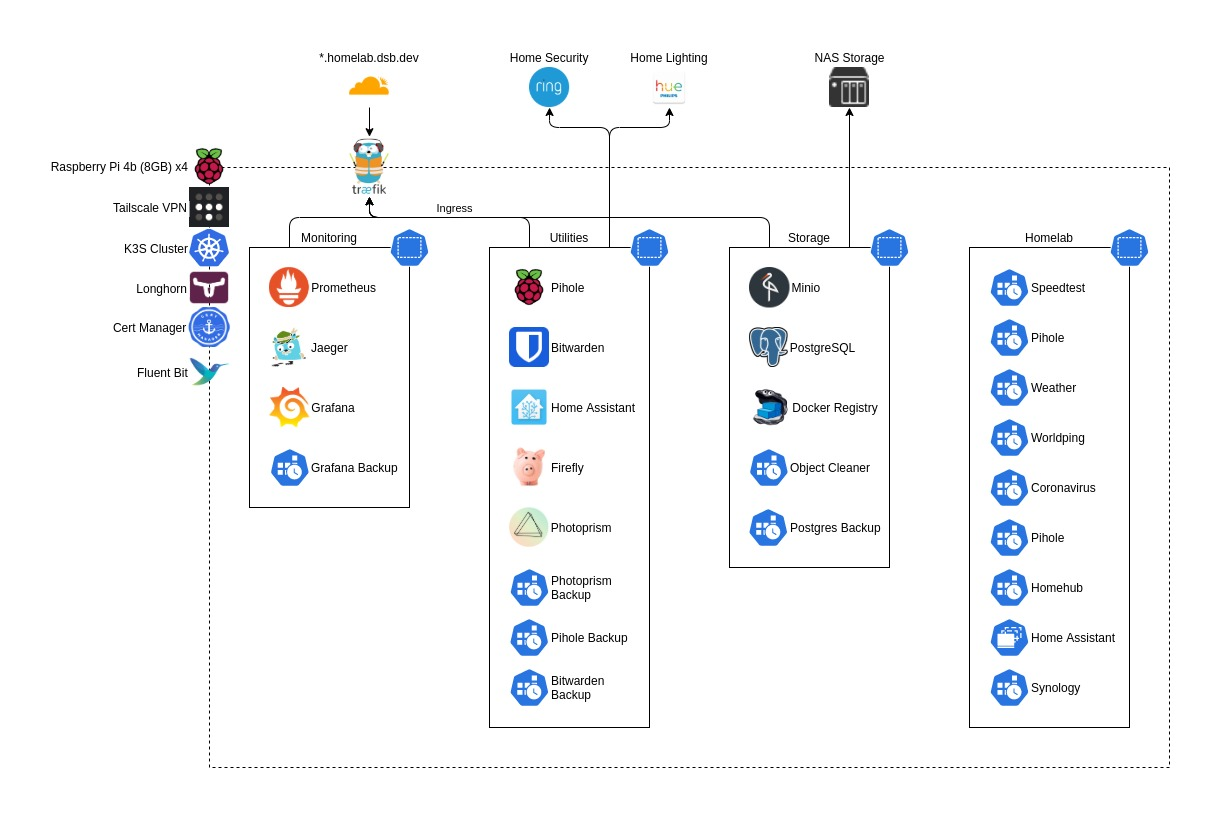
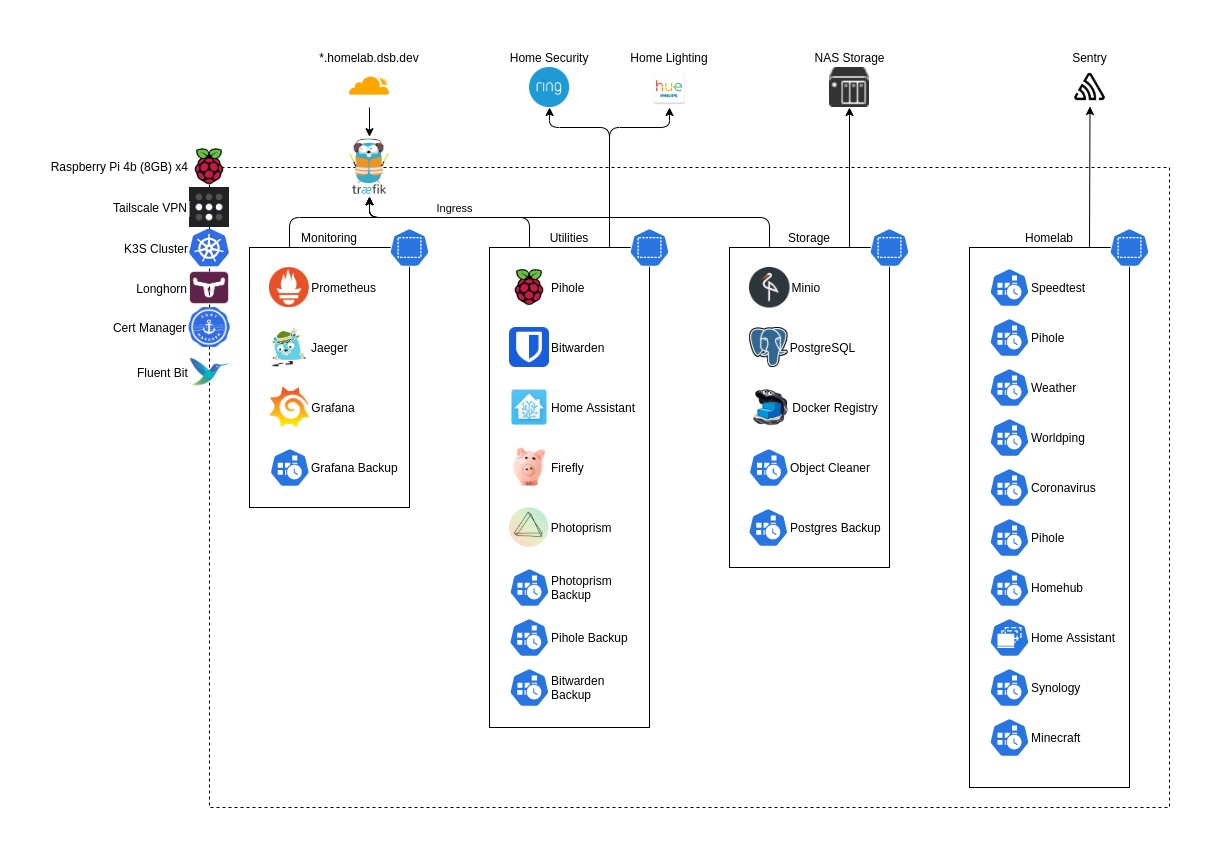
Update diagram and README
Add missing cronjob and sentry integration info.

diff --git a/README.md b/README.md
@@ -116,6 +116,7 @@ These are devices/services that the cluster interacts with, without being direct
 * [Synology](https://www.synology.com/) NAS - Used as the storage backend for minio, primarily used for volume backups
 * [Phillips Hue](https://www.philips-hue.com/en-gb) - Smart lighting, connected via home-assistant
 * [Cloudflare](https://www.cloudflare.com/) - DNS, used to access my applications under the `*.homelab.dsb.dev` domain.
+* [Sentry](https://sentry.io/) -  Cloud-based error monitoring.
 
 ## Cluster upgrades
 
@@ -181,6 +182,7 @@ This list contains all terraform providers used in the project:
 * [minio](https://github.com/aminueza/terraform-provider-minio)
 * [grafana](https://registry.terraform.io/providers/grafana/grafana/latest/docs)
 * [tailscale](https://registry.terraform.io/providers/davidsbond/tailscale/latest/docs)
+* [sentry](https://registry.terraform.io/providers/jianyuan/sentry/latest/docs)
 
 ### Database provisioning
 
